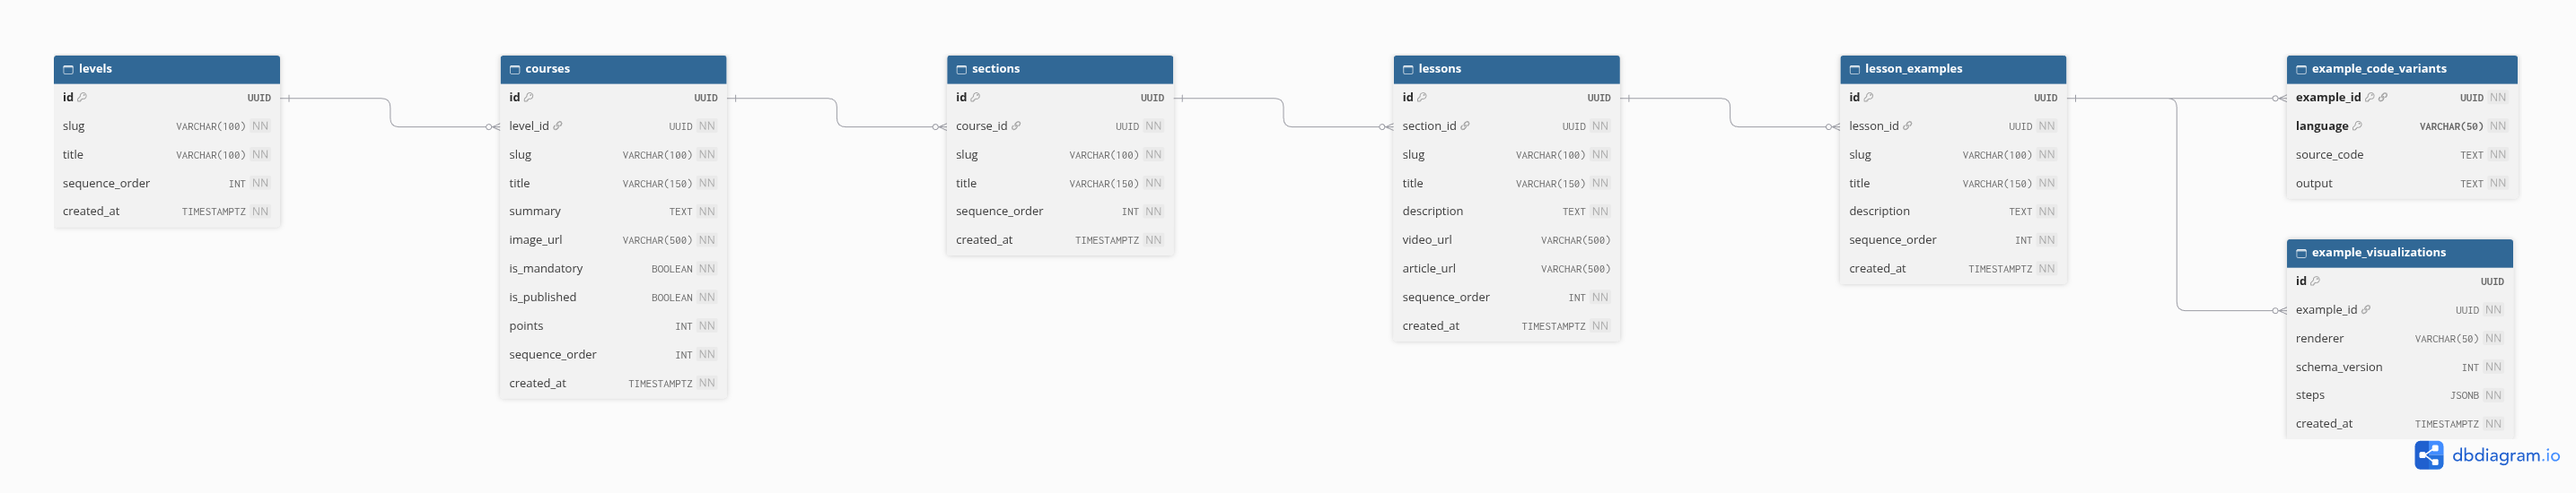
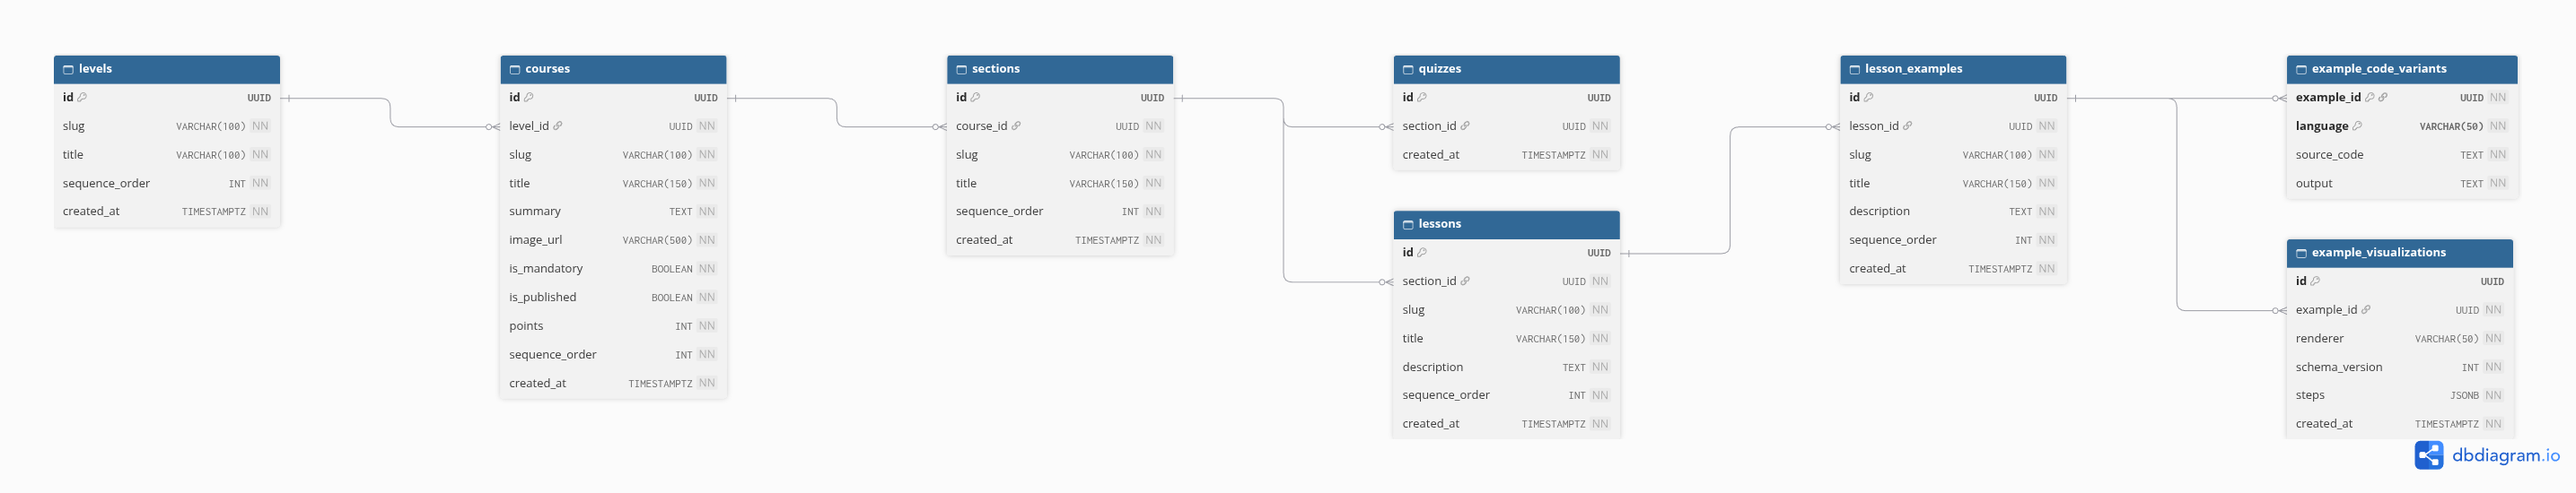
updated the digrams to match the updated schemas

diff --git a/Docs/diagrams/db_digrams/learning_content_and_learner_progress.md b/Docs/diagrams/db_digrams/learning_content_and_learner_progress.md
@@ -17,6 +17,7 @@ USERS ||--o{ ENROLLMENTS : "enrolls in"
 COURSES ||--o{ ENROLLMENTS : "tracked in"
 USERS ||--o{ LESSON_COMPLETIONS : "completes"
 LESSONS ||--o{ LESSON_COMPLETIONS : "completed in"
+LESSON_RESOURCES ||--o{ LESSONS : "belongs to"
 
     LEVELS {
         uuid id PK
@@ -58,9 +59,14 @@ LESSONS ||--o{ LESSON_COMPLETIONS : "completed in"
         string slug
         string title
         string description
-        string video_url
-        string article_url
         int sequence_order
+    }
+    LESSON_RESOURCES{
+        uuid id PK
+        uuid lesson_id FK
+        string resource_type
+        string language
+        string url
     }
 
     TOPICS {
